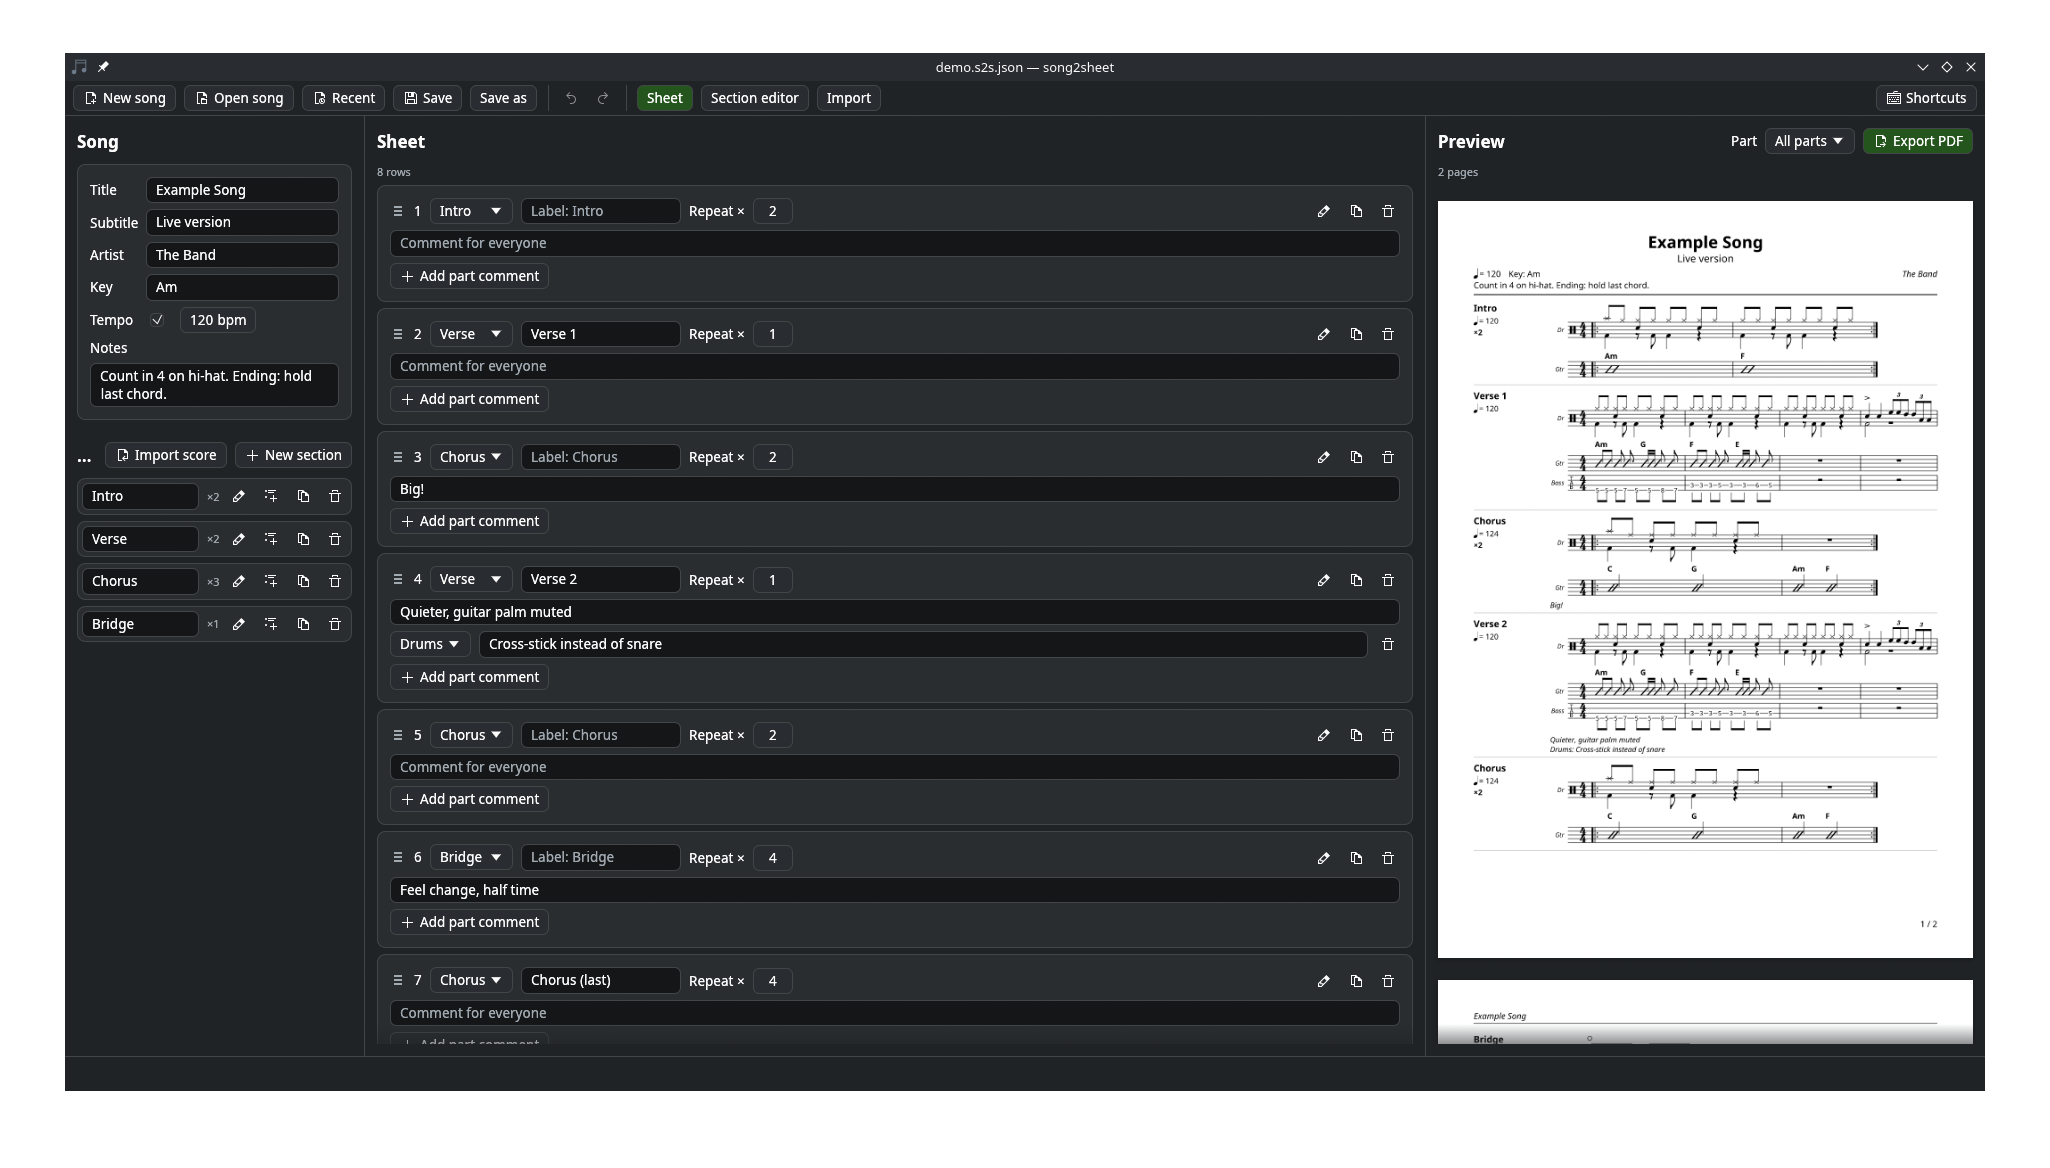
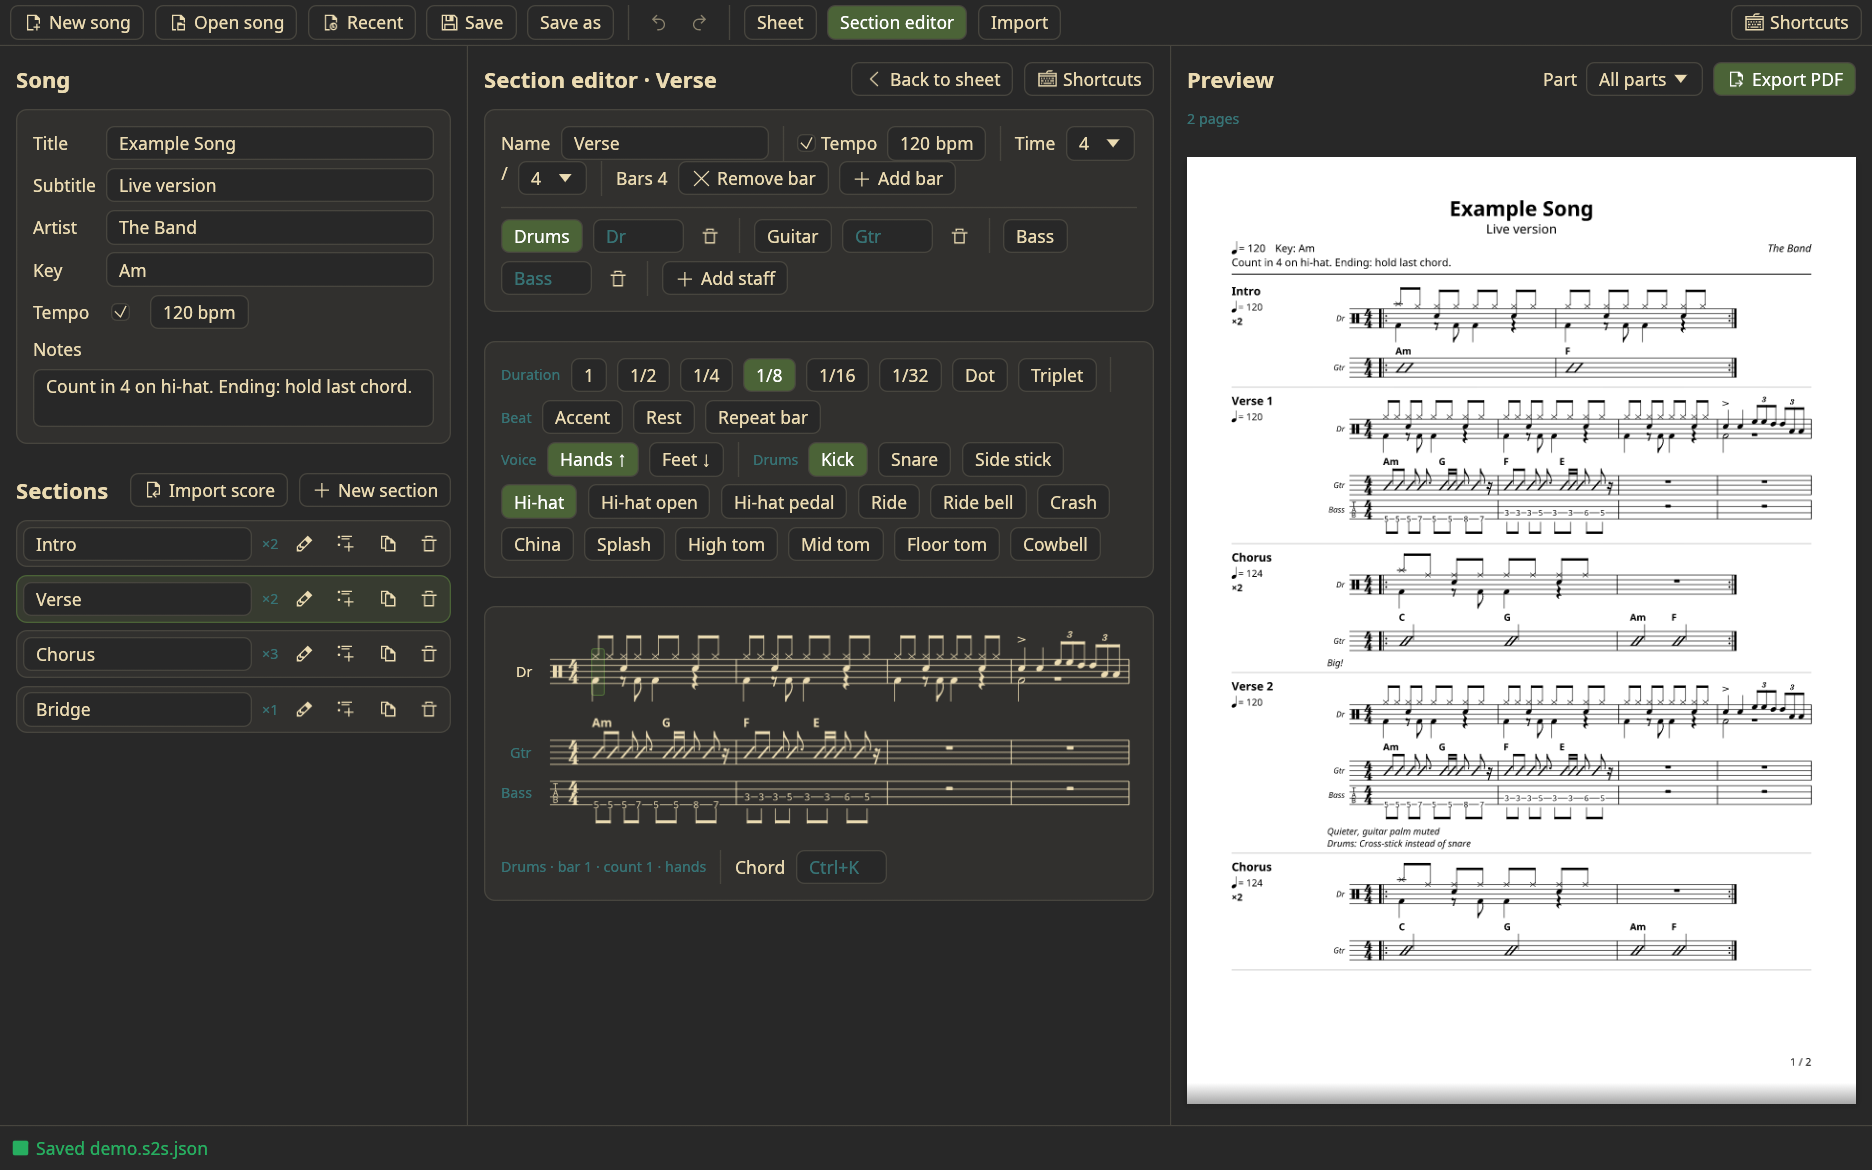
Show the section editor in the README screenshot
It shows the notation drawn onto the card, in place of the sheet screen.

diff --git a/README.md b/README.md
@@ -2,7 +2,7 @@
 
 **Compact song sheets for bands.** One line per song section (intro, verse, chorus…), each with its tempo, a short bit of notation and a few comments, all on one or two A4 pages. Every player can print a version with only their own part.
 
-![The song2sheet app: sections on the left, the sheet in the middle, the print preview on the right](docs/images/app.png)
+![The song2sheet app: sections on the left, a section open in the editor in the middle, the print preview on the right](docs/images/app.png)
 
 ## Why song2sheet?
 
